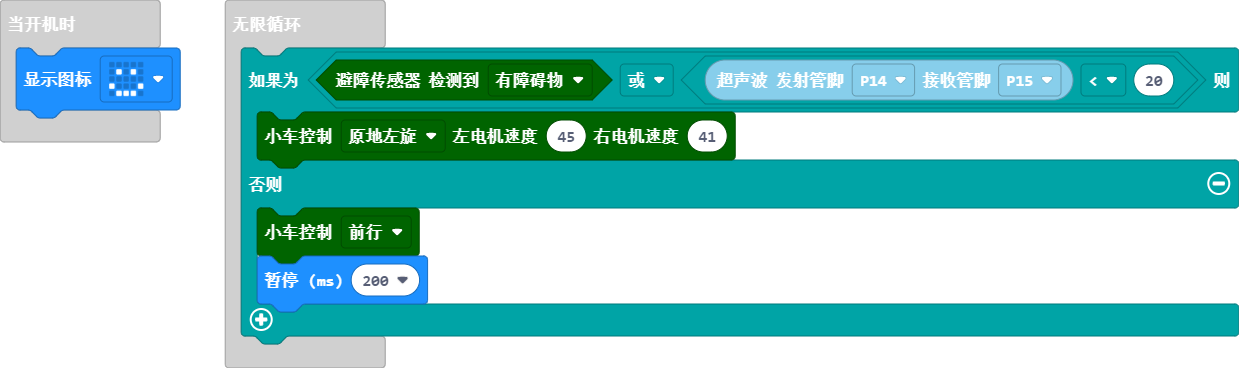
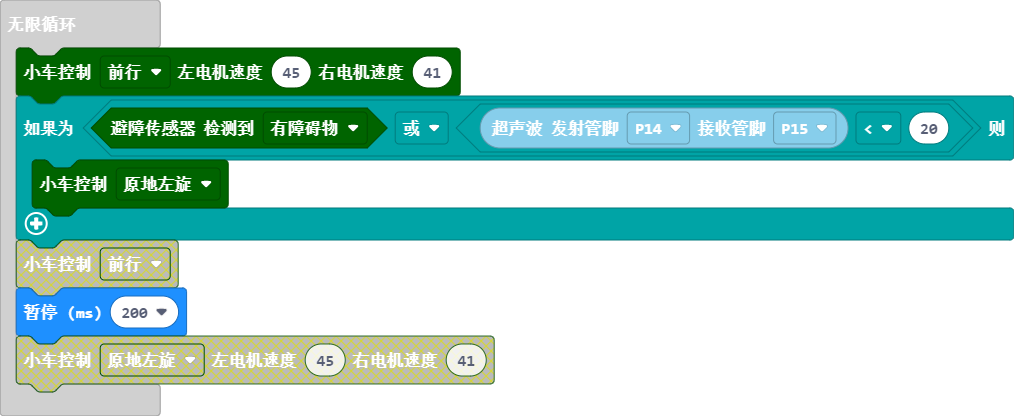
更新 main.blocks, main.ts

diff --git a/main.ts b/main.ts
@@ -1,9 +1,8 @@
 basic.showIcon(IconNames.Happy)
 basic.forever(function () {
+    mbit_小车类.CarCtrlSpeed2(mbit_小车类.CarState.Car_Run, 45, 41)
     if (mbit_小车类.Avoid_Sensor(mbit_小车类.enAvoidState.OBSTACLE) || mbit_传感器类.Ultrasonic(DigitalPin.P14, DigitalPin.P15) < 20) {
-        mbit_小车类.CarCtrlSpeed2(mbit_小车类.CarState.Car_SpinLeft, 45, 41)
-    } else {
-        mbit_小车类.CarCtrl(mbit_小车类.CarState.Car_Run)
+        mbit_小车类.CarCtrl(mbit_小车类.CarState.Car_SpinLeft)
         basic.pause(200)
     }
 })
